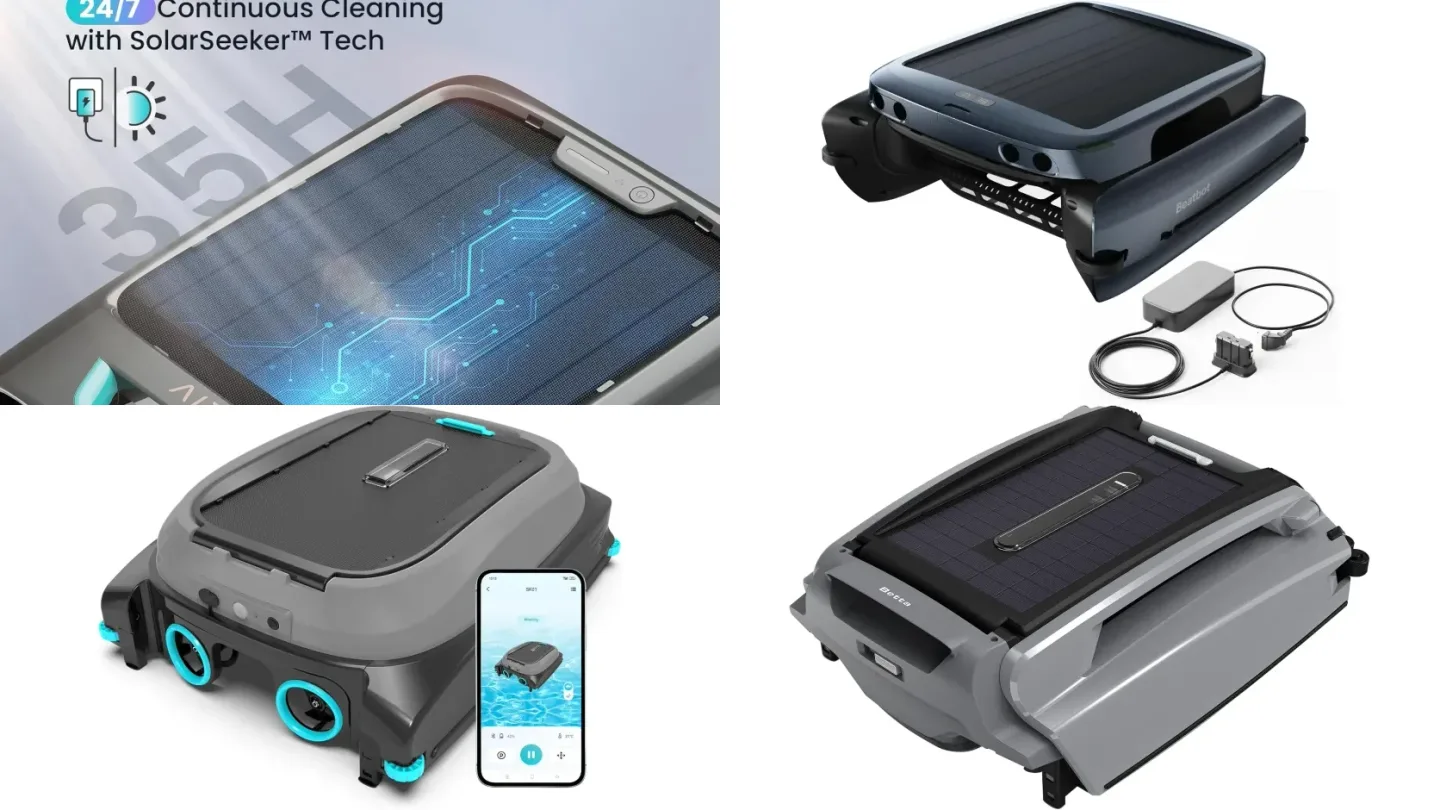
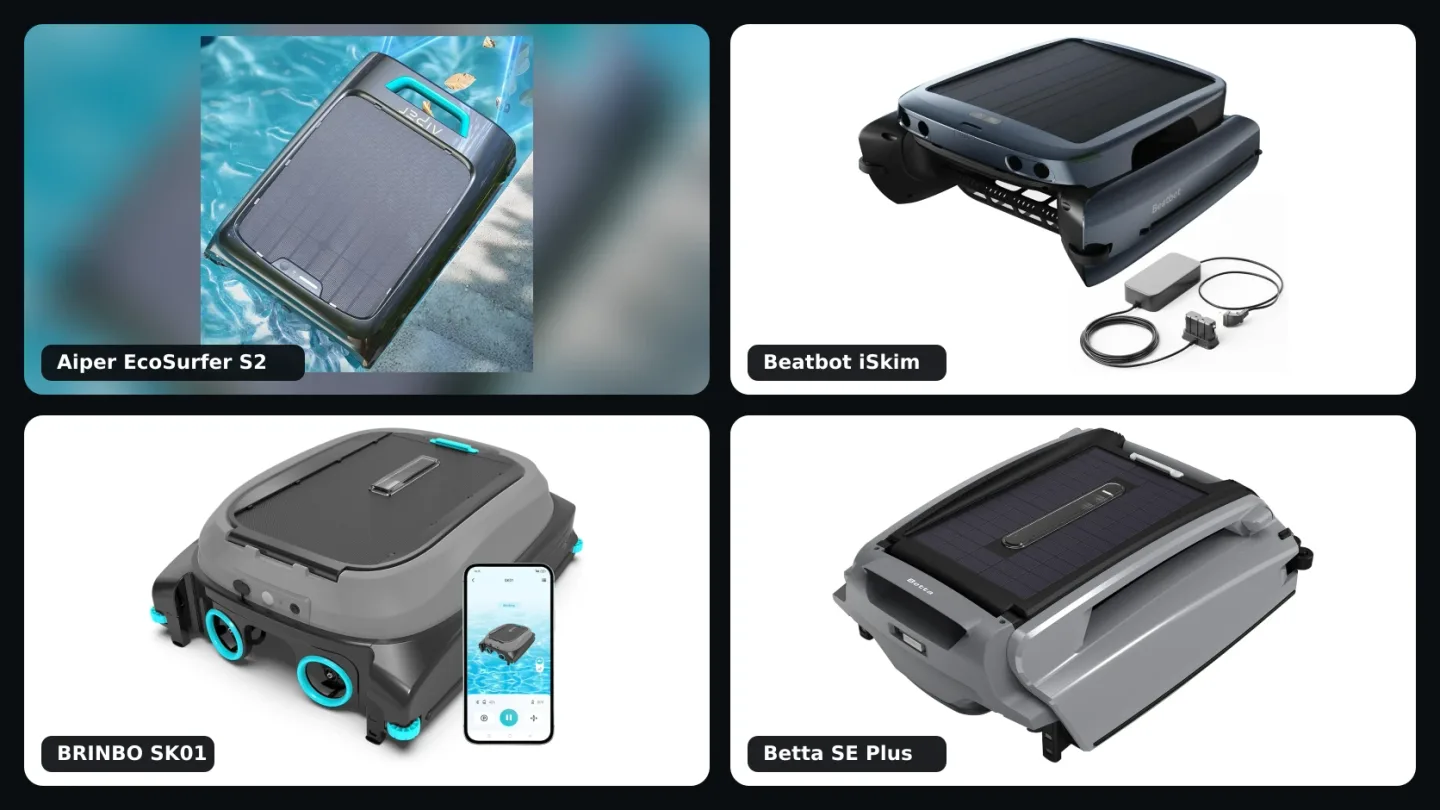
Fix comparison table cell bug sitewide, full-width skimmer glance table, contents ahead of picks, new hero
Claude-Session: https://claude.ai/code/session_01EWJZh91U8dC8ygBsd4cJf7

diff --git a/apps/web/src/content/editorial.ts b/apps/web/src/content/editorial.ts
@@ -100,6 +100,10 @@ export interface EditorialContent {
   lastReviewed: string;
   /** The day the page first went live, when it is known. Article schema is emitted only when this exists — a last-reviewed date is never relabelled as a publication date. */
   published?: string;
+  /** Put the contents block ahead of the picks, for a page whose picks are tall. */
+  contentsFirst?: boolean;
+  /** Extra jump links appended to the contents, for sections the page's slot adds. */
+  extraContents?: { id: string; text: string }[];
 }
 
 /* @extension-point per-category | optional | Best-of pages and standalone
@@ -572,7 +576,7 @@ export const EDITORIAL: Record<string, EditorialContent> = {
     image: {
       src: "/media/editorial/best-solar-pool-skimmers.webp",
       alt:
-        "Four solar pool skimmers in a grid: the Aiper EcoSurfer S2 panel, the Beatbot iSkim, the BRINBO SK01 beside its app and the Betta SE Plus.",
+        "Four solar pool skimmers on labelled cards: the Aiper EcoSurfer S2, the Beatbot iSkim, the BRINBO SK01 beside its app and the Betta SE Plus.",
       focal: "50% 50%",
     },
     prose: "best-solar-pool-skimmers",
@@ -632,6 +636,12 @@ export const EDITORIAL: Record<string, EditorialContent> = {
         a:
           "Some park themselves. Beatbot says the iSkim parks after cleaning or on one tap in its app, and the BRINBO app shows a park button. The Betta SE Plus runs automatically or from a remote. Otherwise it is a pole or a hand.",
       },
+    ],
+    contentsFirst: true,
+    extraContents: [
+      { id: "where-to-buy", text: "Where to buy the four" },
+      { id: "more-pool-robots", text: "If the floor is the problem" },
+      { id: "faq", text: "Questions people actually ask" },
     ],
     published: "2026-10-01",
     lastReviewed: "2026-10-01",

diff --git a/apps/web/src/content/media/assets.ts b/apps/web/src/content/media/assets.ts
@@ -6721,16 +6721,16 @@ export const SOLAR_SKIMMER_NEW_ASSETS: MediaAssetRecord[] = [
     purpose: "Best solar pool skimmers page hero",
     exactModel: null,
     type: "educational_diagram",
-    checksum: "sha256:ed562e4a01a32dcac7ad91adbc0fe2f76766ac490d632bf1db1ba020f9d78fef",
+    checksum: "sha256:0ccd1cdb221512dc97bbab2c074da0e3272e7d096de0096415c6c131625a9daf",
     width: 1672,
     height: 940,
     src: "/media/editorial/best-solar-pool-skimmers.webp",
     altText:
-      "Four solar pool skimmers in a grid: a close-up of the Aiper EcoSurfer S2's solar panel with Aiper's 35 hour and SolarSeeker claims, the dark blue Beatbot iSkim with its charger, the grey and black BRINBO SK01 beside a phone showing its app, and the grey Betta SE Plus seen from above.",
+      "Four solar pool skimmers on four labelled cards: the Aiper EcoSurfer S2 floating beside a pool wall, the dark blue Beatbot iSkim with its charger, the grey and black BRINBO SK01 beside a phone showing its app, and the grey Betta SE Plus from above.",
     altTextStatus: "approved",
     schema: ORIGINAL_SCHEMA,
     depictsRealProduct: true,
-    notes: "A grid of four owner-supplied listing images, one per machine. The Aiper tile is Aiper's own panel and carries Aiper's claim in its pixels.",
+    notes: "Four owner-supplied listing images on labelled cards over the site background. The Aiper card is a crop of an Aiper panel with its headline text removed; the other three are the makers' own product photographs.",
   },
 ];
 

diff --git a/apps/web/src/articles/best-solar-pool-skimmers.md b/apps/web/src/articles/best-solar-pool-skimmers.md
@@ -33,16 +33,7 @@ Four numbers decide most of it, and none of them is how long the marketing says 
 
 ## The four at a glance
 
-| | Betta SE Plus | Aiper EcoSurfer S2 | Beatbot iSkim | BRINBO SK01 |
-|---|---|---|---|---|
-| Runtime claim | 30 hours | 35 hours | not stated | not stated |
-| Basket / mesh | 200 micron | 150 micron | 9 litres | large, no figure |
-| Sensing | Ultrasonic radar | Two dToF sensors | Dual ultrasonic | Ultrasonic |
-| Adapter charge | 3.5 hours | not stated | not stated | 2.5 hours |
-| App | No | Yes | Yes | Yes |
-| Evidence behind it | Manufacturer page and manual | Listing | Listing | Listing |
-
-Every figure in that table is the maker's own claim. Where a cell says not stated, we did not find it in what we read, and the review says the same.
+The table below puts the four side by side on the figures that decide most skimmer purchases. Each machine links to its review and to its Amazon listing.
 
 ## Saltwater, and the app
 
